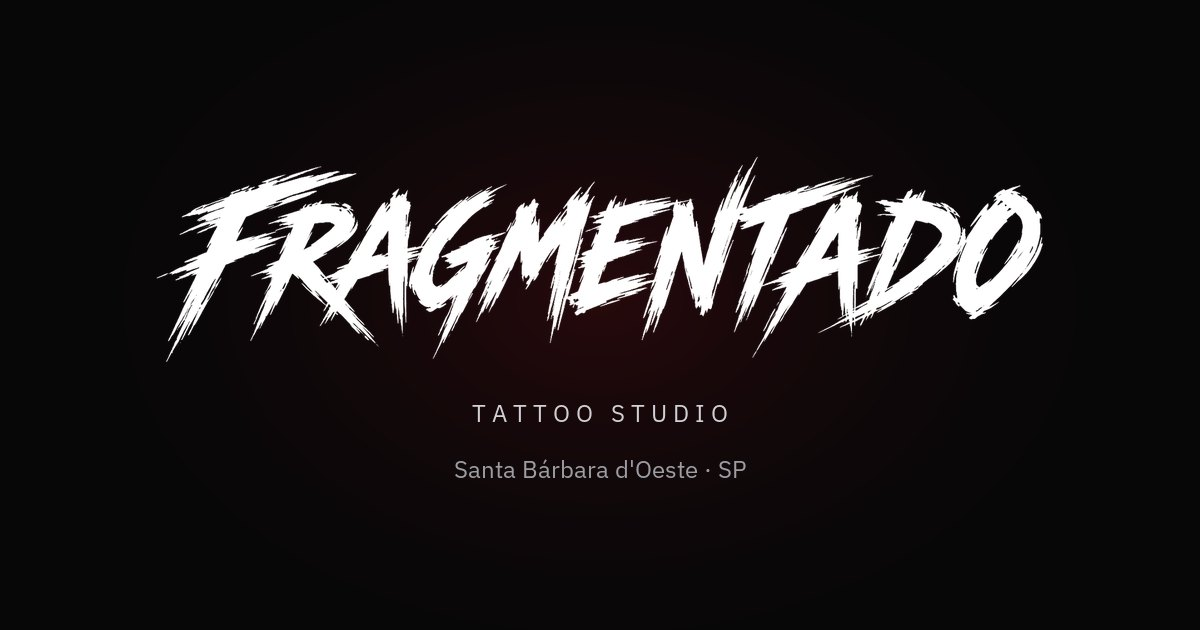
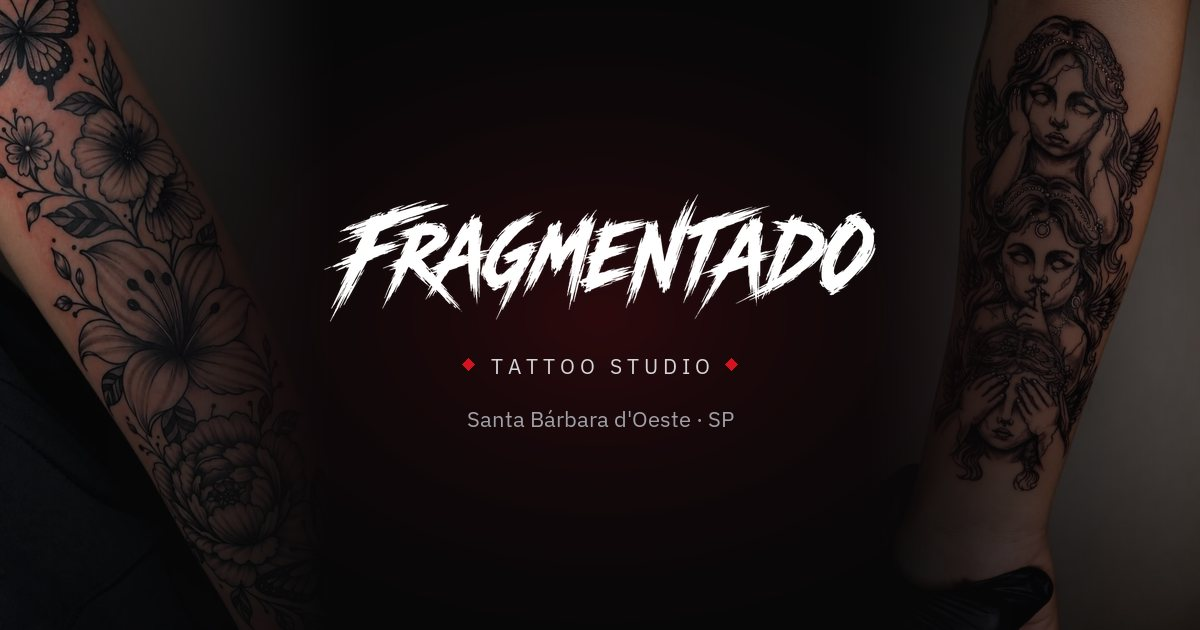
Prévia de link: imagem com centro seguro para o recorte do WhatsApp e meta tags completas

diff --git a/index.html b/index.html
@@ -7,11 +7,23 @@
 <meta name="description" content="Estúdio de tatuagem privado em Santa Bárbara d'Oeste (SP). Blackwork, floral, dark art e lettering, fechamentos de braço e flash. Orçamento pelo WhatsApp.">
 <meta name="robots" content="noindex">
 <meta name="theme-color" content="#070708">
+<link rel="canonical" href="https://azeugral.github.io/fragmentado-tattoo/">
 <meta property="og:type" content="website">
-<meta property="og:title" content="Fragmentado Tattoo Studio">
-<meta property="og:description" content="Blackwork, floral, dark art e lettering em Santa Bárbara d'Oeste. Me traga sua ideia.">
-<meta property="og:image" content="https://azeugral.github.io/fragmentado-tattoo/og.jpg">
+<meta property="og:site_name" content="Fragmentado Tattoo Studio">
+<meta property="og:url" content="https://azeugral.github.io/fragmentado-tattoo/">
+<meta property="og:title" content="Fragmentado Tattoo Studio · Santa Bárbara d'Oeste">
+<meta property="og:description" content="Blackwork, floral, dark art e lettering. Fechamentos de braço e flash em estúdio privado. Orçamento pelo WhatsApp.">
+<meta property="og:image" content="https://azeugral.github.io/fragmentado-tattoo/og.jpg?v=2">
+<meta property="og:image:secure_url" content="https://azeugral.github.io/fragmentado-tattoo/og.jpg?v=2">
+<meta property="og:image:type" content="image/jpeg">
+<meta property="og:image:width" content="1200">
+<meta property="og:image:height" content="630">
+<meta property="og:image:alt" content="Logo Fragmentado Tattoo Studio entre fotos de tatuagens em preto e cinza">
 <meta property="og:locale" content="pt_BR">
+<meta name="twitter:card" content="summary_large_image">
+<meta name="twitter:title" content="Fragmentado Tattoo Studio · Santa Bárbara d'Oeste">
+<meta name="twitter:description" content="Blackwork, floral, dark art e lettering. Fechamentos de braço e flash em estúdio privado.">
+<meta name="twitter:image" content="https://azeugral.github.io/fragmentado-tattoo/og.jpg?v=2">
 <link rel="icon" type="image/png" href="favicon-64.png">
 <link rel="apple-touch-icon" href="apple-touch-icon.png">
 <link rel="preconnect" href="https://fonts.googleapis.com">

diff --git a/tools/og.py b/tools/og.py
@@ -21,16 +21,32 @@ def brilho(w, h, cx, cy, r, cor, forca):
     return base
 
 
-og = brilho(1200, 630, 600, 300, 620, VERM, .16)
-lw = 900; lg = logo.resize((lw, round(lw * logo.height / logo.width)), Image.LANCZOS)
-y = 150
+# prévia de link (WhatsApp, Instagram, etc.): 1200x630.
+# O WhatsApp muitas vezes mostra só o quadrado central (630x630), então logo e textos ficam
+# dentro dele; as laterais levam duas fotos de tattoo que somem em direção ao centro.
+og = brilho(1200, 630, 600, 315, 560, VERM, .18)
+for arq, x0 in (('hero-1.webp', 0), ('hero-2.webp', 860)):
+    ft = Image.open(os.path.join(BASE, 'assets', 'img', arq)).convert('RGB')
+    ft = ft.resize((round(630 * ft.width / ft.height), 630), Image.LANCZOS)
+    ft = ft.crop(((ft.width - 340) // 2, 0, (ft.width - 340) // 2 + 340, 630))
+    m = Image.new('L', (340, 630), 0); dm = ImageDraw.Draw(m)
+    for x in range(340):
+        t = 1 - x / 339 if x0 == 0 else x / 339  # 1 na borda externa, 0 perto do centro
+        dm.line([(x, 0), (x, 630)], fill=int(255 * .62 * t ** 1.3))
+    og.paste(ft, (x0, 0), m)
+lw = 560; lg = logo.resize((lw, round(lw * logo.height / logo.width)), Image.LANCZOS)
+y = 190
 og.paste(lg, ((1200 - lw) // 2, y), lg)
 d = ImageDraw.Draw(og)
-fs = ImageFont.truetype(PLEX, 24)
-for txt, yy, cor in (('T A T T O O   S T U D I O', y + lg.height + 28, (210, 210, 214)),
-                     ('Santa Bárbara d\'Oeste · SP', y + lg.height + 84, (157, 157, 164))):
-    w = d.textlength(txt, font=fs); d.text(((1200 - w) / 2, yy), txt, font=fs, fill=cor)
-og.save(os.path.join(BASE, 'og.jpg'), quality=86)
+fs = ImageFont.truetype(PLEX, 21); fs2 = ImageFont.truetype(PLEX, 22)
+yy = y + lg.height + 26
+t1 = 'T A T T O O   S T U D I O'; w1 = d.textlength(t1, font=fs)
+d.text(((1200 - w1) / 2, yy), t1, font=fs, fill=(214, 214, 218))
+for cx in ((1200 - w1) / 2 - 22, (1200 + w1) / 2 + 22):  # losangos vermelhos, como no site
+    d.polygon([(cx, yy + 6), (cx + 6, yy + 12), (cx, yy + 18), (cx - 6, yy + 12)], fill=VERM)
+t2 = "Santa Bárbara d'Oeste · SP"; w2 = d.textlength(t2, font=fs2)
+d.text(((1200 - w2) / 2, yy + 52), t2, font=fs2, fill=(160, 160, 167))
+og.save(os.path.join(BASE, 'og.jpg'), quality=84, optimize=True, progressive=True)
 
 # ícone: "F" isolado no mesmo pincel (_ref/logo/f.png, gerado por IA em branco sobre preto)
 g = Image.open(os.path.join(REF, 'logo', 'f.png')).convert('L')
